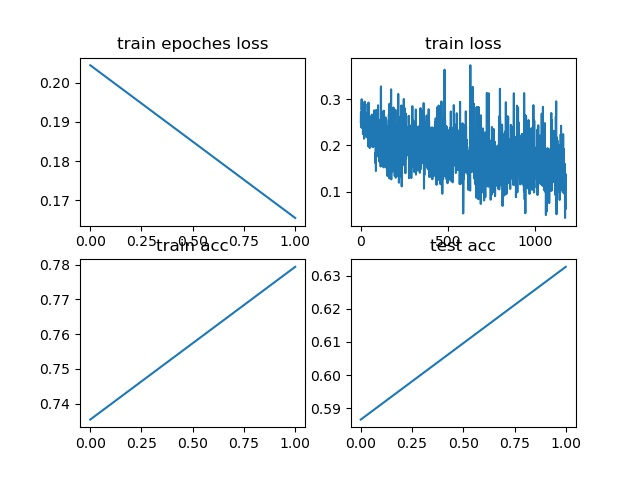
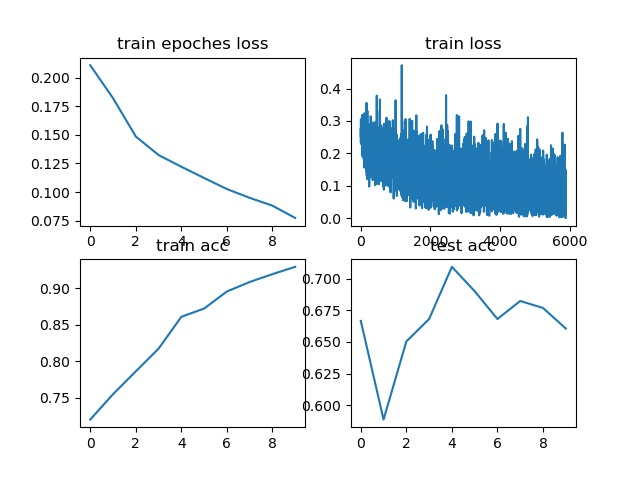
nothing

diff --git a/Network_try.py b/Network_try.py
@@ -119,7 +119,7 @@ if __name__ == "__main__":
     my_model = Net().cuda()
     optimizer = torch.optim.Adam(my_model.parameters(), lr=0.001)
 
-    my_model.load_state_dict(torch.load('model_v2_lr_0,001_adam_outs_2_18layer_epchs_20_labels_10000_acc_70.pt', map_location='cuda:0'))
+    # my_model.load_state_dict(torch.load('model_v2_lr_0,001_adam_outs_2_18layer_epchs_20_labels_10000_acc_70.pt', map_location='cuda:0'))
     epoches = 10
     for i in range(epoches):
         train(my_model, loss_function, optimizer, train_line_data_loader, loss_history, i + 1)
